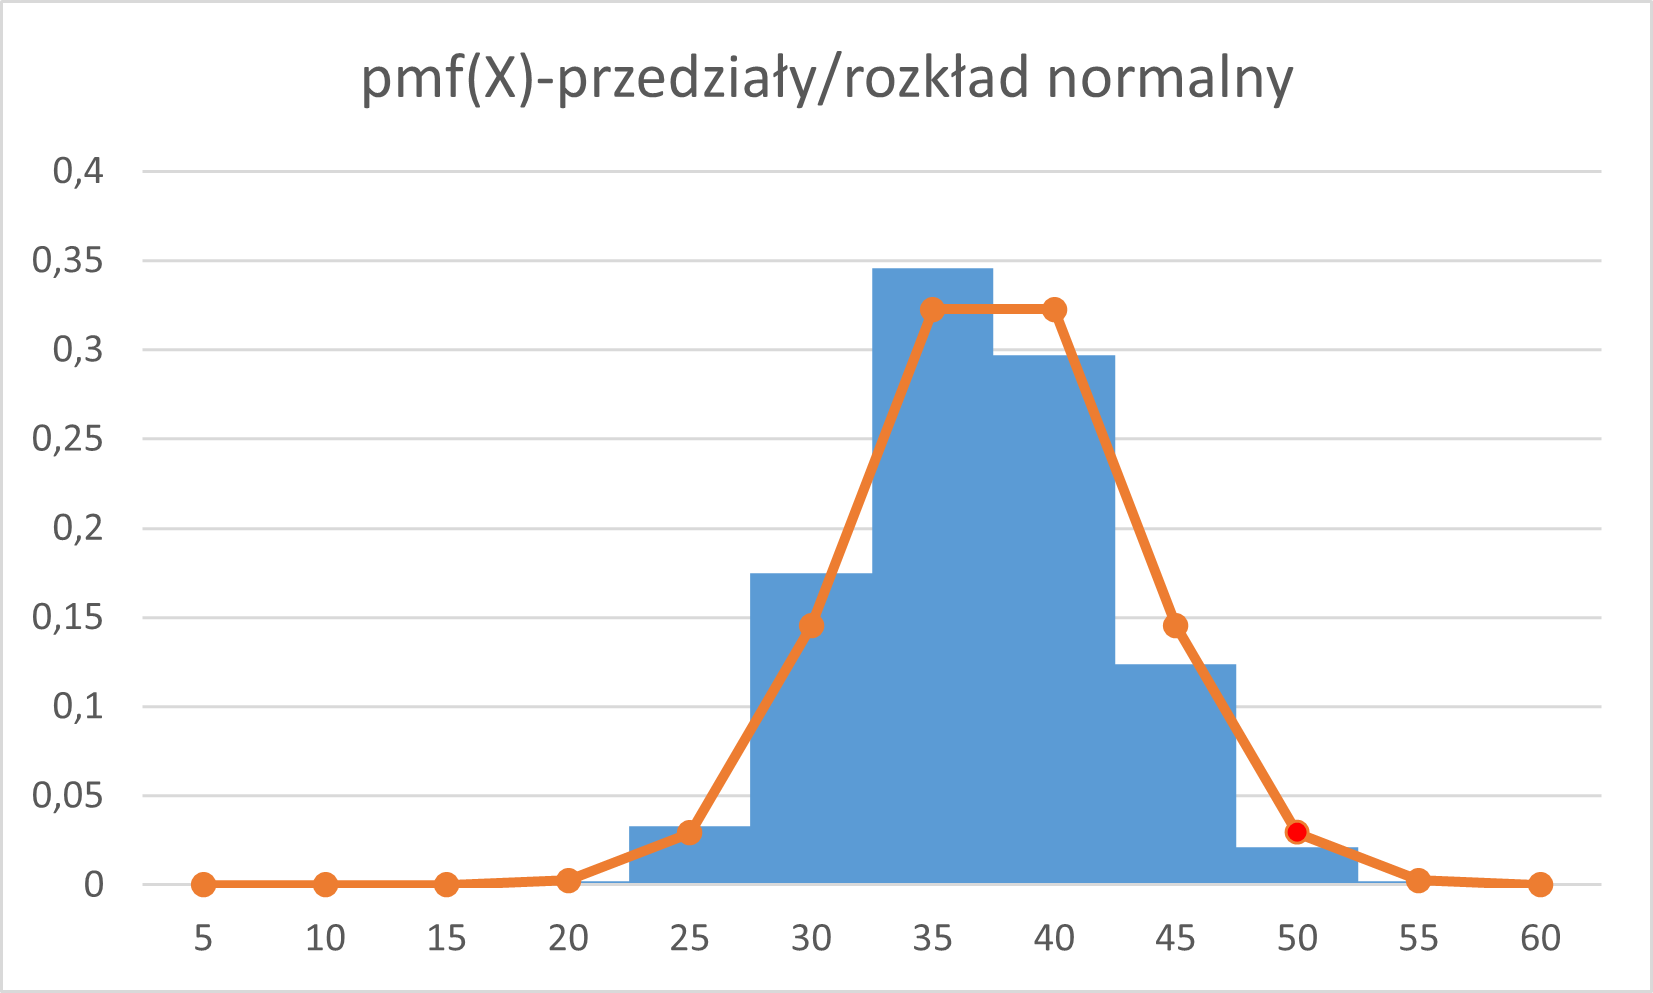
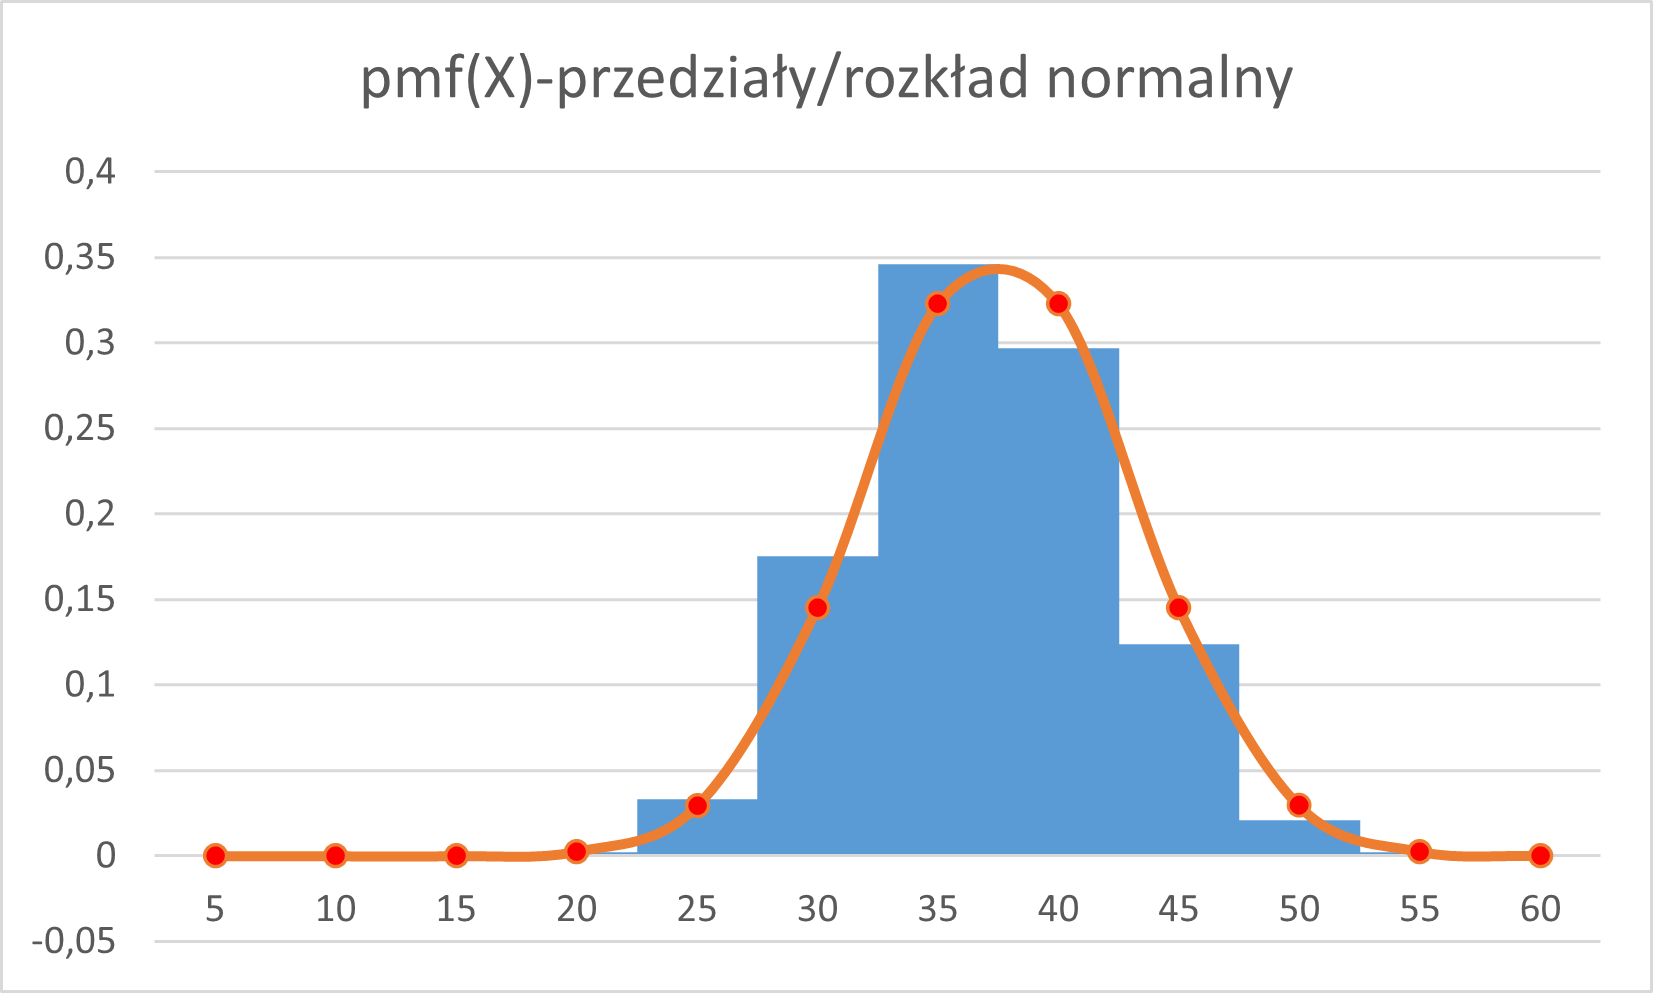
update

diff --git a/labmat.html b/labmat.html
@@ -68,15 +68,19 @@ W^2=x^12 + 2*x^11 + 3*x^10 + 4*x^9 + 5*x^8 + 6*x^7 + 5*x^6 + 4*x^5 + 3*x^4 + 2*x
 W^10=x^60 + 10*x^59 + 55*x^58 + 220*x^57 + 715*x^56 + 2002*x^55 + 4995*x^54 + 11340*x^53 + 23760*x^52 + 46420*x^51 + 85228*x^50 + 147940*x^49 + 243925*x^48 + 383470*x^47 + 576565*x^46 + 831204*x^45 + 1151370*x^44 + 1535040*x^43 + 1972630*x^42 + 2446300*x^41 + 2930455*x^40 + 3393610*x^39 + 3801535*x^38 + 4121260*x^37 + 4325310*x^36 + 4395456*x^35 + 4325310*x^34 + 4121260*x^33 + 3801535*x^32 + 3393610*x^31 + 2930455*x^30 + 2446300*x^29 + 1972630*x^28 + 1535040*x^27 + 1151370*x^26 + 831204*x^25 + 576565*x^24 + 383470*x^23 + 243925*x^22 + 147940*x^21 + 85228*x^20 + 46420*x^19 + 23760*x^18 + 11340*x^17 + 4995*x^16 + 2002*x^15 + 715*x^14 + 220*x^13 + 55*x^12 + 10*x^11 + x^10
 <br><br>
 
-<h2> Odpowiedź do zadania D.4</h2> porównanie z rozkładem teoretycznym <br>
 
-<br><img src="./D4.png" style="max-width:80%;">
 
+<h2> Odpowiedź do zadania D.4
+</h2> Rozkład częstości w przedziałach <br>
+Uwaga: możemy użyć tablicowej funkcji CZĘSTOŚĆ <br>
+<br><img src="./D4tab.png" style="max-width:80%;"><br>
+
+</h2> empiryczny rozkład masy prawdopodobieństwa <br>
+
+<br><img src="./D4.png" style="max-width:80%;"><br>
 
 <h2> Odpowiedź D.5</h2> porównanie z rozkładem normalnym N(70/2 , 5*sqrt(7/6))<br>
 
 <br><img src="./D5.png" style="max-width:80%;">
-
-
 
 </body></html>
